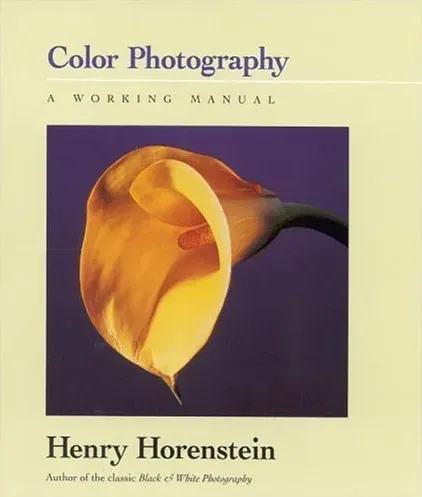
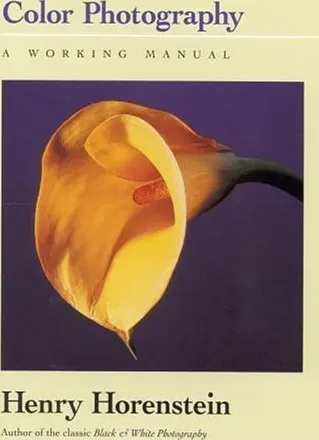
Add 11 uploaded covers and trim product photos more safely
A deep trim of an upload is kept only if it stops at the book's edge
(checked a little inside the trimmed image), so a pale cover on white
isn't cut down to its lettering. A hairline round the whole image is
shaved off before trimming. Small Trades and LIFE were cropped by hand.

diff --git a/scripts/covers.ts b/scripts/covers.ts
@@ -252,23 +252,71 @@ const MIN_TRIM_KEEP_UPLOAD = 0.5;
 /** How far (0–255) a pixel may differ from the border colour and still count as border. */
 const TRIM_THRESHOLD = 24;
 
+/** A deep trim must stop at an edge: this share of each side's pixels must stand out from the border… */
+const MIN_EDGE_CONTRAST = 0.5;
+/** …looking this far inside the trimmed image, past the soft edge, and by at least this much (0–255). */
+const EDGE_INSET = 0.02;
+const EDGE_THRESHOLD = 12;
+/** A hairline round the whole image (a scan or screenshot) is shaved off first, up to this wide. */
+const OUTLINE_PX = 3;
+
 /**
  * Cuts away a plain border (white, or a studio backdrop) around the cover,
  * judged from the top-left pixel. A white cover on a white background would be
  * trimmed down to its lettering, so a trim that takes more than a quarter of
- * either side is ignored (by default; see MIN_TRIM_KEEP_UPLOAD).
+ * either side is ignored. Uploads may go deeper (MIN_TRIM_KEEP_UPLOAD), but
+ * only if the trim stops at the book's edge rather than inside a pale cover.
  */
-export async function trimBorder(image: Buffer, minKeep = MIN_TRIM_KEEP): Promise<Buffer> {
+export async function trimBorder(original: Buffer, minKeep = MIN_TRIM_KEEP): Promise<Buffer> {
+  const image = await shaveOutline(original);
   const { width = 0, height = 0 } = await sharp(image).metadata();
   try {
     const { data, info } = await sharp(image)
       .trim({ threshold: TRIM_THRESHOLD })
       .toBuffer({ resolveWithObject: true });
     const kept = Math.min(info.width / width, info.height / height);
-    return kept >= minKeep ? data : image;
+    if (kept >= MIN_TRIM_KEEP) return data;
+    if (kept >= minKeep && (await stopsAtEdge(image, data))) return data;
+    return original;
   } catch {
-    return image; // a single-colour image has nothing to trim to
+    return original; // a single-colour image has nothing to trim to
   }
+}
+
+/** Cuts off a thin line round the image when the corner differs from just inside it. */
+async function shaveOutline(image: Buffer): Promise<Buffer> {
+  const { width = 0, height = 0 } = await sharp(image).metadata();
+  if (width < 100 || height < 100) return image;
+  const pixel = (x: number, y: number) =>
+    sharp(image).removeAlpha().extract({ left: x, top: y, width: 1, height: 1 }).raw().toBuffer();
+  const [corner, inside] = await Promise.all([pixel(0, 0), pixel(OUTLINE_PX, OUTLINE_PX)]);
+  if (Math.max(...[0, 1, 2].map((c) => Math.abs(corner[c] - inside[c]))) <= TRIM_THRESHOLD) return image;
+  return sharp(image)
+    .extract({ left: OUTLINE_PX, top: OUTLINE_PX, width: width - 2 * OUTLINE_PX, height: height - 2 * OUTLINE_PX })
+    .png()
+    .toBuffer();
+}
+
+/** Whether every side of the trimmed image is mostly unlike the original's border colour. */
+async function stopsAtEdge(original: Buffer, trimmed: Buffer): Promise<boolean> {
+  const border = await sharp(original).removeAlpha().extract({ left: 0, top: 0, width: 1, height: 1 }).raw().toBuffer();
+  const { data, info } = await sharp(trimmed).removeAlpha().raw().toBuffer({ resolveWithObject: true });
+  const { width, height, channels } = info;
+  const stands = (x: number, y: number) => {
+    const i = (y * width + x) * channels;
+    return Math.max(...[0, 1, 2].map((c) => Math.abs(data[i + c] - border[c]))) > EDGE_THRESHOLD;
+  };
+  const share = (points: [number, number][]) => points.filter(([x, y]) => stands(x, y)).length / points.length;
+  const dx = Math.round(width * EDGE_INSET);
+  const dy = Math.round(height * EDGE_INSET);
+  const xs = Array.from({ length: width - 2 * dx }, (_, x) => x + dx);
+  const ys = Array.from({ length: height - 2 * dy }, (_, y) => y + dy);
+  return [
+    xs.map((x): [number, number] => [x, dy]),
+    xs.map((x): [number, number] => [x, height - 1 - dy]),
+    ys.map((y): [number, number] => [dx, y]),
+    ys.map((y): [number, number] => [width - 1 - dx, y]),
+  ].every((side) => share(side) >= MIN_EDGE_CONTRAST);
 }
 
 /** Trims, resizes to WebP in public/covers and returns what the site needs to show it. */

diff --git a/tests/match.test.ts b/tests/match.test.ts
@@ -248,6 +248,27 @@ describe("trimBorder", () => {
     expect(await trimBorder(image)).toBe(image);
   });
 
+  test("won't trim deep into a pale cover, even when asked", async () => {
+    // A white cover on white: all the trim finds is two bits of lettering.
+    const mark = await cover(20, "#000000");
+    const image = await sharp({ create: { width: 400, height: 400, channels: 3, background: "#ffffff" } })
+      .composite([
+        { input: mark, left: 100, top: 100 },
+        { input: mark, left: 280, top: 280 },
+      ])
+      .png()
+      .toBuffer();
+    expect(await trimBorder(image, 0.25)).toBe(image);
+  });
+
+  test("shaves a hairline round the image before trimming the border inside it", async () => {
+    const image = await sharp(await framed(340, "#28465c"))
+      .extend({ top: 2, bottom: 2, left: 2, right: 2, background: "#a8a8a8" })
+      .png()
+      .toBuffer();
+    expect(await sharp(await trimBorder(image)).metadata()).toMatchObject({ width: 340, height: 340 });
+  });
+
   test("trims deeper when asked, for a product photo of the book on a backdrop", async () => {
     const out = await trimBorder(await framed(260, "#28465c"), 0.5);
     expect(await sharp(out).metadata()).toMatchObject({ width: 260, height: 260 });
